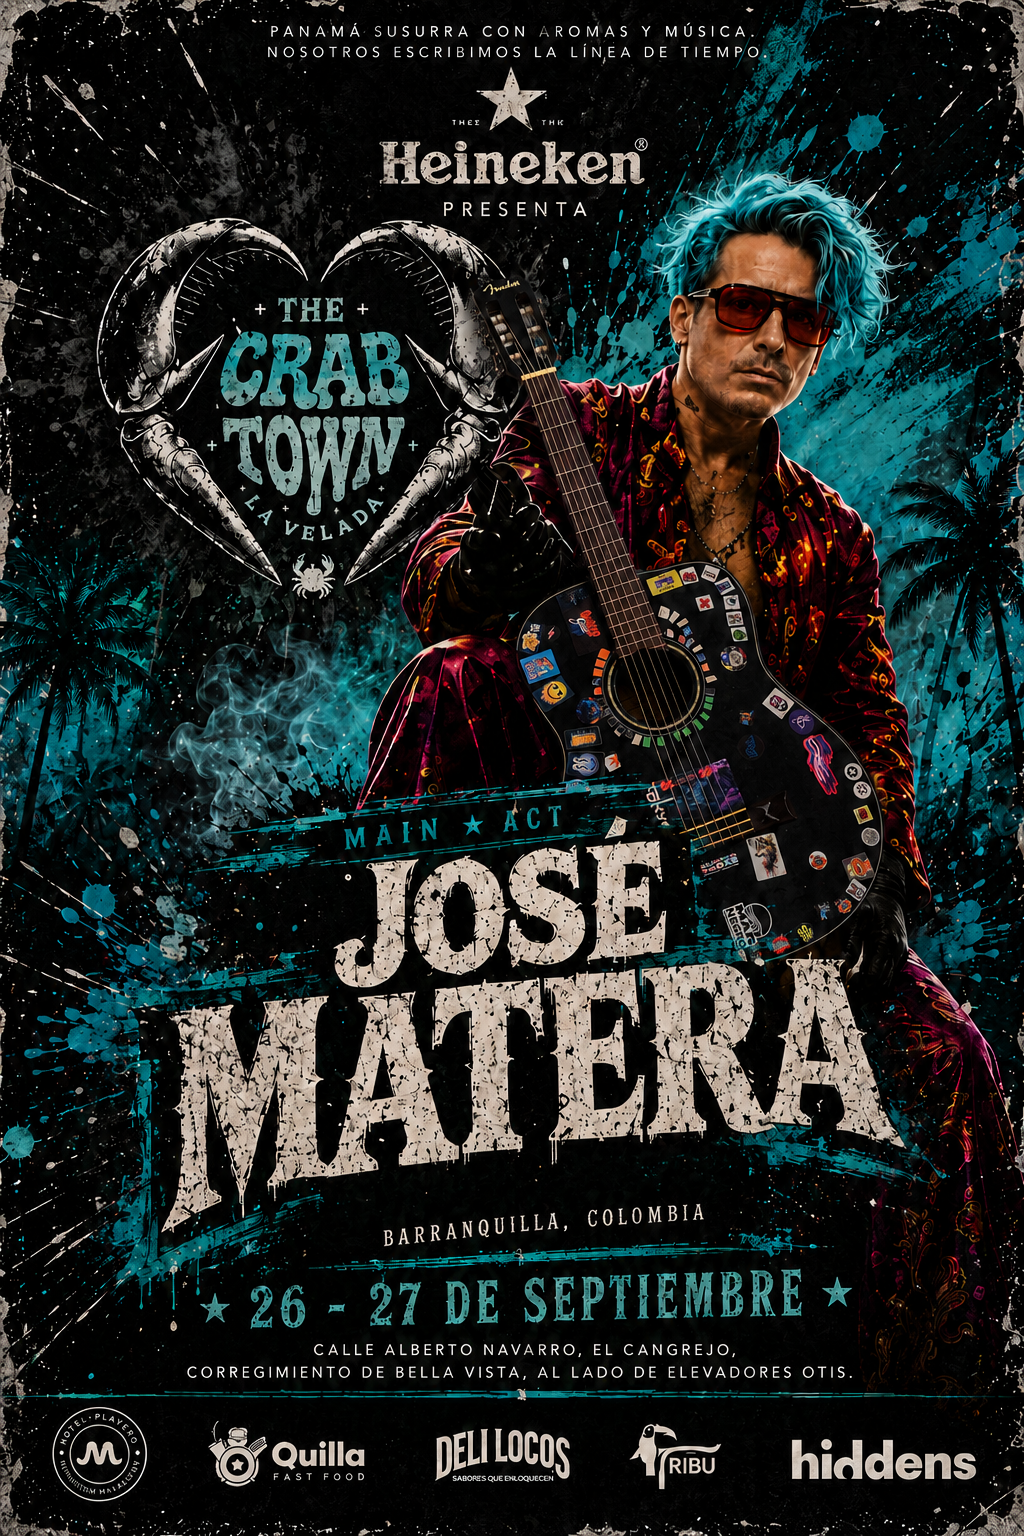
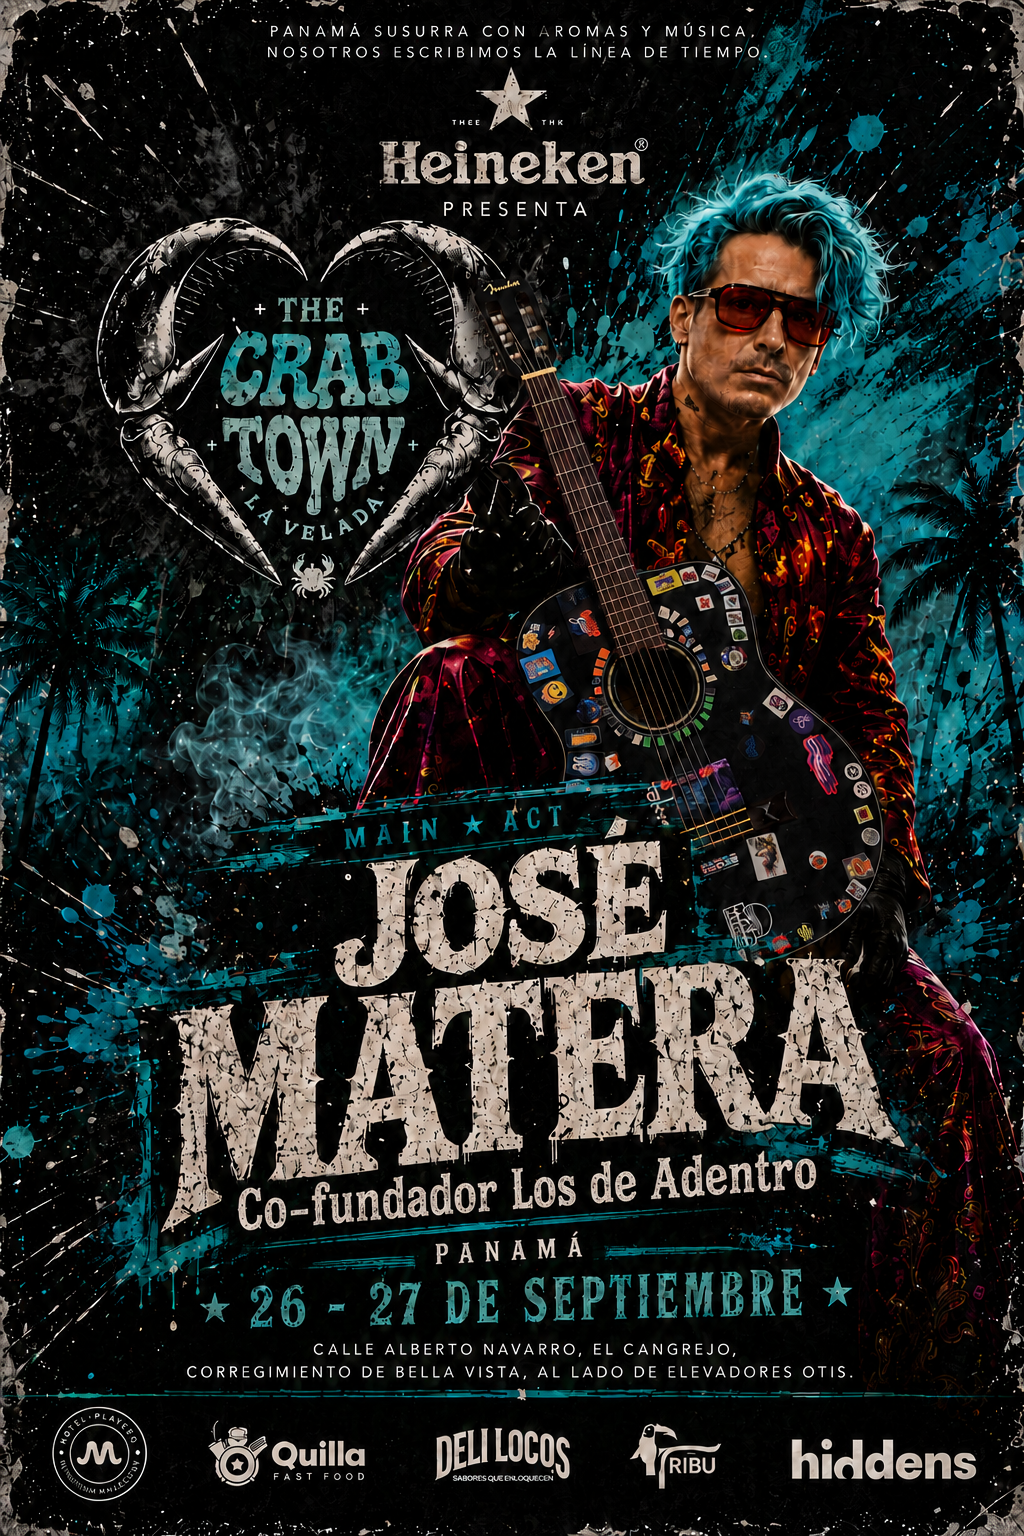
new image

diff --git a/src/data/events.js b/src/data/events.js
@@ -30,7 +30,7 @@ export const events = [
     id: 4,
     date: '26-27 SEP',
     year: '2026',
-    city: 'Barranquilla',
+    city: 'Panamá',
     venue: 'Sesión acústica',
     flyer: '/images/events/flyer-04.png',
     ticketUrl: '#'
